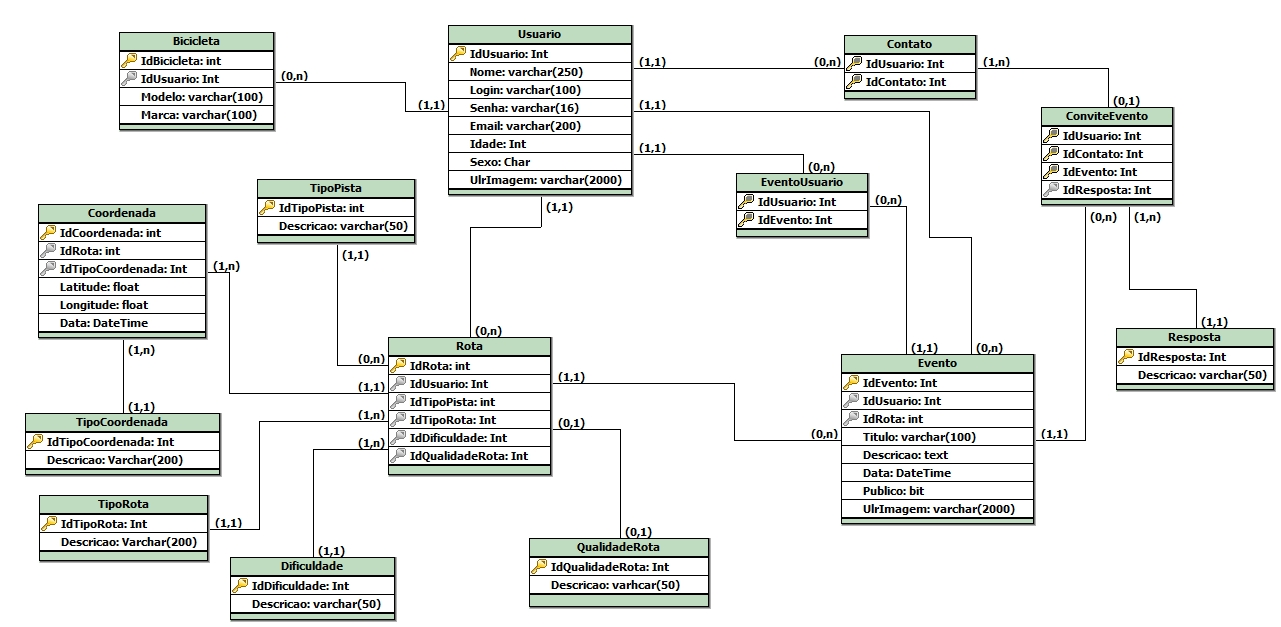
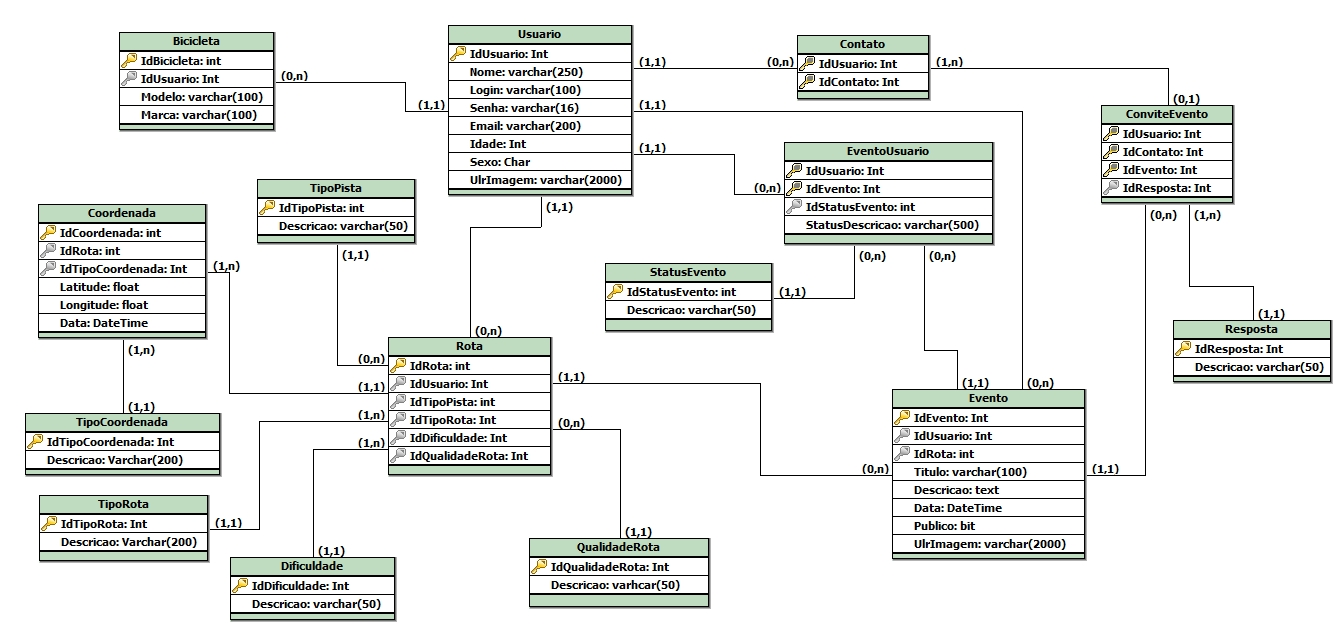
Alteracao do modelo de dados para adicionar StatusEvento

diff --git a/Trunk/Src/Fusiones.Main/Fusioness.Services/MainService.asmx.cs b/Trunk/Src/Fusiones.Main/Fusioness.Services/MainService.asmx.cs
@@ -137,7 +137,7 @@ namespace Fusioness.Services
             try
             {
                 return Facade.Instance.GetRotas(IdUsuario);
-                return new JavaScriptSerializer().Serialize("done successfully!");
+                //return new JavaScriptSerializer().Serialize("done successfully!");
             }
             catch
             {
